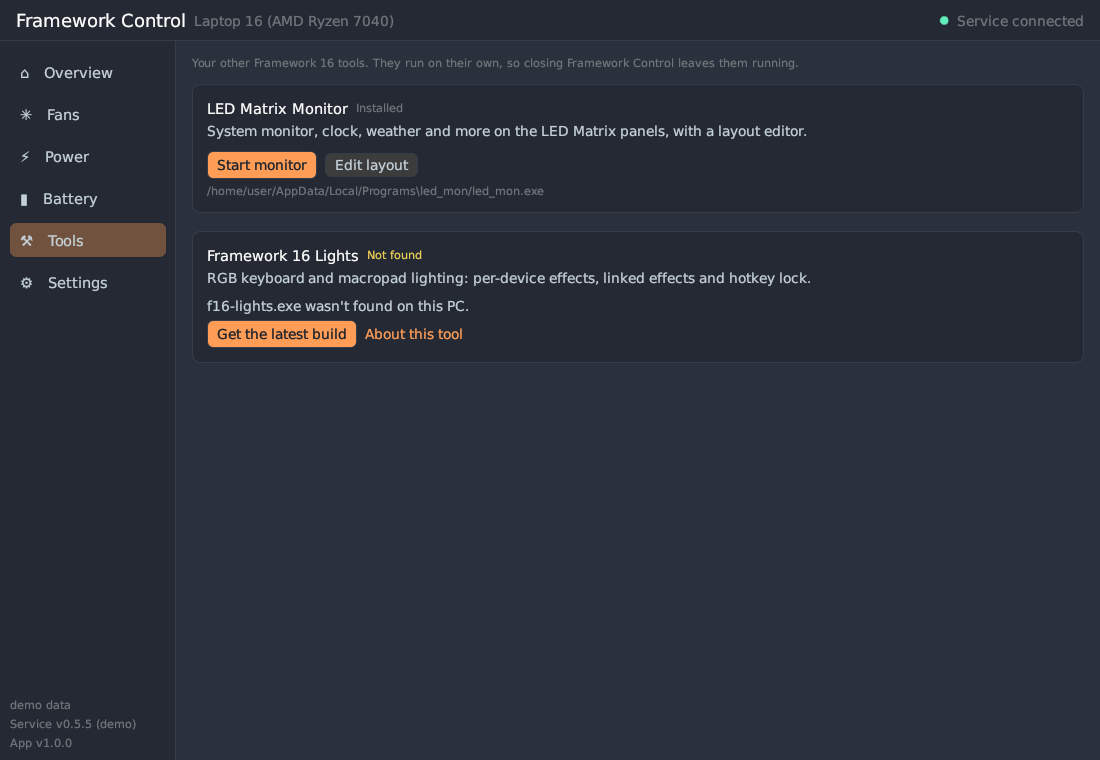
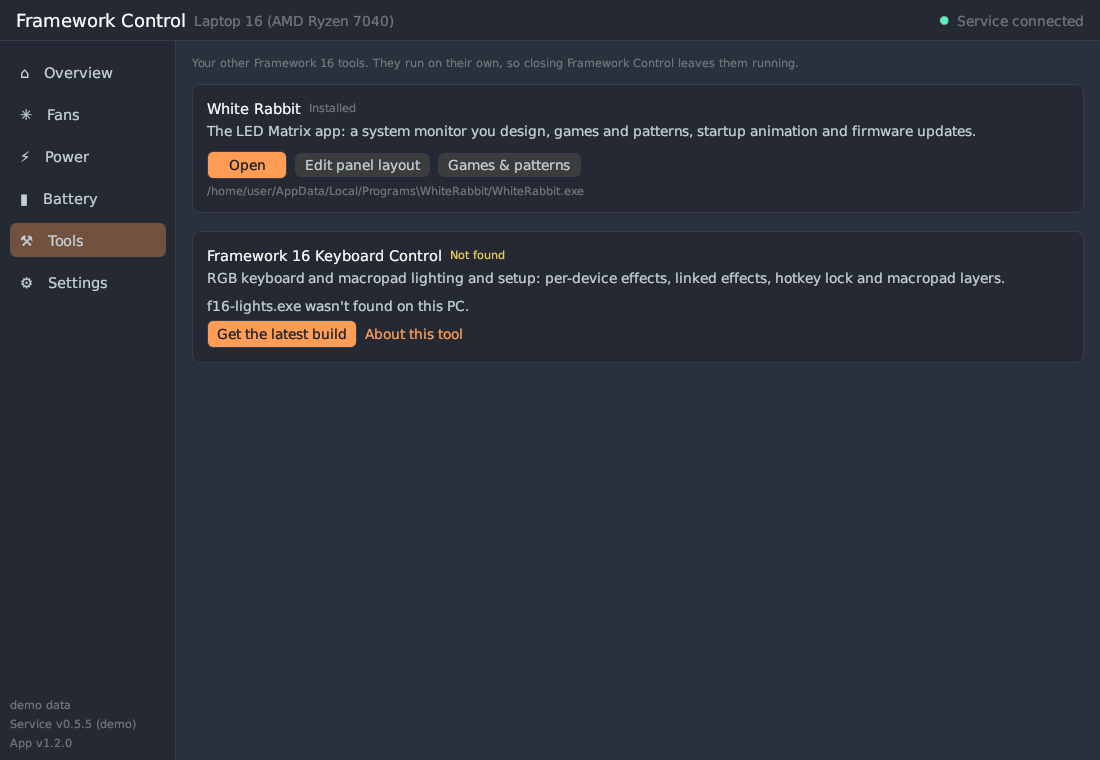
Tools: launch White Rabbit instead of led_mon; rename keyboard app
White Rabbit (the all-in-one LED Matrix app) replaces the LED Matrix
Monitor on the Tools page, with Open, Edit panel layout and Games & patterns.
It handles repeat launches itself, so the single-instance blocking is gone.
The keyboard app is now shown as Framework 16 Keyboard Control. Version
1.2.0.

Claude-Session: https://claude.ai/code/session_01RrKeqgPQh8a3G9UMAwVSc1

Changed region(s): [[0.1855, 0.1211, 0.8964, 0.2421], [0.2782, 0.3329, 0.8964, 0.3934], [0.3709, 0.2118, 0.5255, 0.2724]]

diff --git a/native/src/launcher.rs b/native/src/launcher.rs
@@ -1,4 +1,4 @@
-//! Companion Framework 16 tools that this app can start
+//! Companion Framework 16 tools (White Rabbit, Framework 16 Keyboard Control) that this app can start
 //! (see https://github.com/kingof9x/my-framework-16-tools).
 
 use std::collections::BTreeMap;
@@ -11,8 +11,6 @@ pub struct Action {
     pub label: &'static str,
     pub args: &'static [&'static str],
     pub hint: &'static str,
-    /// This action starts the long-running instance (blocked while it is running).
-    pub starts_instance: bool,
 }
 
 pub struct ToolDef {
@@ -26,32 +24,36 @@ pub struct ToolDef {
     pub download_label: &'static str,
     pub download_url: &'static str,
     pub project_url: &'static str,
-    /// The tool refuses to start a second copy (named mutex).
-    pub single_instance: bool,
 }
 
 pub const TOOLS: &[ToolDef] = &[
     ToolDef {
-        id: "led_mon",
-        name: "LED Matrix Monitor",
-        description: "System monitor, clock, weather and more on the LED Matrix panels, with a layout editor.",
-        exe: "led_mon.exe",
+        id: "white-rabbit",
+        name: "White Rabbit",
+        description: "The LED Matrix app: a system monitor you design, games and patterns, startup animation and firmware updates.",
+        exe: "WhiteRabbit.exe",
         actions: &[
-            Action { label: "Start monitor", args: &[], hint: "Runs in the system tray", starts_instance: true },
-            Action { label: "Edit layout", args: &["--edit-layout"], hint: "Choose which apps show on each panel", starts_instance: false },
+            // A plain start runs the monitor and opens the window; if the monitor is already running, it just opens the window.
+            Action { label: "Open", args: &[], hint: "Starts the LED monitor if needed and opens the window" },
+            Action { label: "Edit panel layout", args: &["--edit-layout"], hint: "Choose what shows on each panel" },
+            Action { label: "Games & patterns", args: &["--window", "--tab", "play"], hint: "" },
         ],
-        install_dirs: &[("LOCALAPPDATA", "Programs\\led_mon")],
+        install_dirs: &[
+            ("LOCALAPPDATA", "Programs\\WhiteRabbit"),
+            ("USERPROFILE", "Downloads\\WhiteRabbit-portable"),
+            ("USERPROFILE", "Downloads"),
+            ("USERPROFILE", "Desktop"),
+        ],
         download_label: "Download installer",
-        download_url: "https://github.com/kingof9x/My-Framework-16-tools/releases/latest/download/led_mon-setup.exe",
-        project_url: "https://github.com/kingof9x/led-matrix",
-        single_instance: true,
+        download_url: "https://github.com/kingof9x/white-rabbit-framework-matrix/releases/latest/download/WhiteRabbit-setup.exe",
+        project_url: "https://github.com/kingof9x/white-rabbit-framework-matrix",
     },
     ToolDef {
         id: "f16-lights",
-        name: "Framework 16 Lights",
-        description: "RGB keyboard and macropad lighting: per-device effects, linked effects and hotkey lock.",
+        name: "Framework 16 Keyboard Control",
+        description: "RGB keyboard and macropad lighting and setup: per-device effects, linked effects, hotkey lock and macropad layers.",
         exe: "f16-lights.exe",
-        actions: &[Action { label: "Open", args: &[], hint: "", starts_instance: false }],
+        actions: &[Action { label: "Open", args: &[], hint: "" }],
         install_dirs: &[
             ("LOCALAPPDATA", "Programs\\f16-lights"),
             ("USERPROFILE", "Downloads"),
@@ -61,7 +63,6 @@ pub const TOOLS: &[ToolDef] = &[
         download_label: "Get the latest build",
         download_url: "https://github.com/kingof9x/framework-16-keyboard-customization/releases/latest",
         project_url: "https://github.com/kingof9x/framework-16-keyboard-customization",
-        single_instance: false,
     },
 ];
 

diff --git a/native/src/pages/tools.rs b/native/src/pages/tools.rs
@@ -1,5 +1,5 @@
-//! Launcher for the companion Framework 16 tools (LED Matrix Monitor,
-//! keyboard/macropad lighting app).
+//! Launcher for the companion Framework 16 tools (White Rabbit LED Matrix
+//! app, Framework 16 Keyboard Control).
 
 use std::time::{Duration, Instant};
 
@@ -72,18 +72,12 @@ pub fn show(app: &mut App, ui: &mut Ui) {
                 Some(path) => {
                     ui.horizontal_wrapped(|ui| {
                         for action in tool.actions {
-                            let blocked = action.starts_instance && tool.single_instance && running;
-                            let resp = if blocked {
-                                ui.add_enabled(false, egui::Button::new(action.label))
-                                    .on_disabled_hover_text("Already running (look for its tray icon)")
+                            let r = if std::ptr::eq(action, &tool.actions[0]) {
+                                primary_button(ui, action.label)
                             } else {
-                                let r = if std::ptr::eq(action, &tool.actions[0]) {
-                                    primary_button(ui, action.label)
-                                } else {
-                                    ui.button(action.label)
-                                };
-                                if action.hint.is_empty() { r } else { r.on_hover_text(action.hint) }
+                                ui.button(action.label)
                             };
+                            let resp = if action.hint.is_empty() { r } else { r.on_hover_text(action.hint) };
                             if resp.clicked() {
                                 t.msg = Some(match launcher::launch(path, action.args) {
                                     Ok(()) => (format!("Started {}.", tool.name), false),

diff --git a/README.md b/README.md
@@ -58,9 +58,11 @@ isn't counted.</sub>
 - **Battery**: charge limit, charge-rate limit with an SoC threshold, health,
   cycles, live power, and up to 7 days of history.
 - **Tools**: launch your other Framework 16 tools:
-  - the [LED Matrix Monitor](https://github.com/kingof9x/led-matrix): start
-    it, or open its layout editor;
-  - the [keyboard + macropad lighting app](https://github.com/kingof9x/framework-16-keyboard-customization).
+  - [**White Rabbit**](https://github.com/kingof9x/white-rabbit-framework-matrix),
+    the LED Matrix app: open it, edit the panel layout, or jump to games and
+    patterns;
+  - [**Framework 16 Keyboard Control**](https://github.com/kingof9x/framework-16-keyboard-customization),
+    for keyboard and macropad lighting.
 
   The page shows whether each tool is installed or running, and links to the
   download when it isn't.
@@ -75,7 +77,7 @@ isn't counted.</sub>
 | ![Fans](docs/screenshots/fans.png) | ![Fan 2 tab](docs/screenshots/fan2.png) |
 | **Battery: charge limits and history** | **Power: TDP and thermal limits** |
 | ![Battery](docs/screenshots/battery.png) | ![Power](docs/screenshots/power.png) |
-| **Tools: launch your other Framework 16 tools** | **Calibration wizard** |
+| **Tools: launch White Rabbit and Framework 16 Keyboard Control** | **Calibration wizard** |
 | ![Tools](docs/screenshots/tools.png) | ![Calibration](docs/screenshots/calibrate.png) |
 | **Settings: updates, themes, framework_tool** | **Light theme** |
 | ![Settings](docs/screenshots/settings.png) | ![Light theme](docs/screenshots/light.png) |

diff --git a/native/README.md b/native/README.md
@@ -44,7 +44,7 @@ FC_DEMO_SCENE=calibrate cargo run -- --demo --page fans
 | `src/task.rs` | One-off background jobs (installs, log fetches) |
 | `src/app.rs` | Window shell, navigation, feature toggles, autosaving drafts |
 | `src/pages/*.rs` | Overview, Fans, Power, Battery, Tools, Settings |
-| `src/launcher.rs` | Companion tools (LED Matrix Monitor, Framework 16 Lights): where to find them, running check, launching, remembered locations (`%APPDATA%\FrameworkControl\native-app.json`) |
+| `src/launcher.rs` | Companion tools (White Rabbit, Framework 16 Keyboard Control): where to find them, running check, launching, remembered locations (`%APPDATA%\FrameworkControl\native-app.json`) |
 | `src/plots.rs` | Graphs and the interactive fan-curve editor |
 | `src/calibration.rs` | Fan calibration wizard (same procedure as the web UI) |
 | `src/theme.rs` | Native versions of the web UI's 8 DaisyUI themes |

diff --git a/native/CHANGELOG.md b/native/CHANGELOG.md
@@ -3,6 +3,14 @@
 Versions here are this fork's release line. The upstream service version the
 fork is synced to is recorded in `tools/parity/parity.toml`.
 
+## 1.2.0
+
+- The Tools page now launches **White Rabbit**, the all-in-one LED Matrix
+  app, instead of the LED Matrix Monitor (led_mon). Buttons: *Open*, *Edit
+  panel layout* and *Games & patterns*. White Rabbit's own Framework Control
+  button opens this app, so the two open each other.
+- The keyboard app is now called **Framework 16 Keyboard Control**.
+
 ## 1.1.0
 
 - New **Tools** page that launches your other Framework 16 tools:
